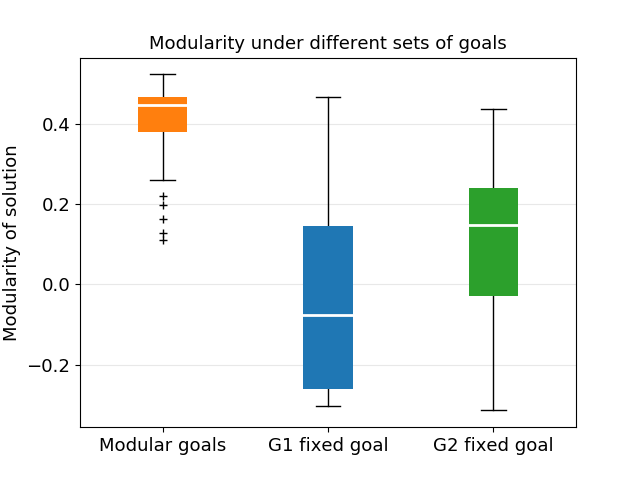
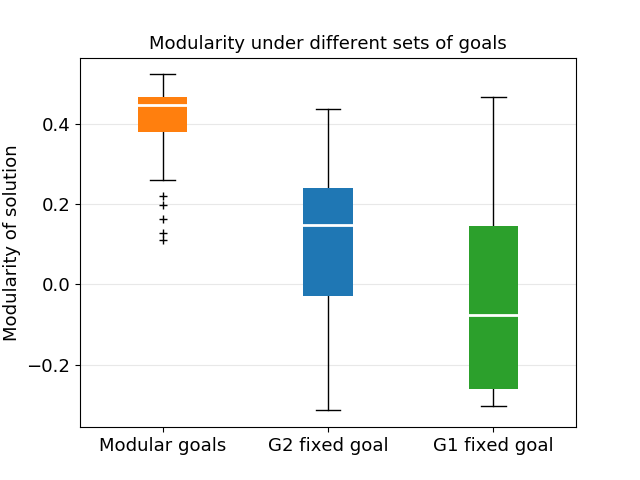
Finishing data processing

diff --git a/DataProcessing.py b/DataProcessing.py
@@ -27,11 +27,8 @@ def getModularity(path, fileCount):
     modularities = modularities[~np.isnan(modularities)]
     return modularities
 
-resolution = 20
+
 maxLength = int(1E5)
-resolution = 20
-start = resolution - 1
-labels = ["Modular goals", "G1 fixed goal", "G2 fixed goal"]
 
 # get the fitness over time of all experiments
 G1Fitness = getTrajectories("Data/FixedGoals/G1/Fitness/Fitness", 50, maxLength)
@@ -57,15 +54,17 @@ print(str(len(lengthG1)) + " successful solves of G1")
 print(str(len(lengthG2)) + " successful solves of G2")
 print(str(len(lengthModularGoals)) + " successful solves of alternating G1 and G2")
 
-print("Time taken to complete G1 was: " + str(meanG1) + " (" + str(quartilesG1[0]) + ", " + str(quartilesG1[1]) + ")")
-print("Time taken to complete G2 was: " + str(meanG2) + " (" + str(quartilesG2[0]) + ", " + str(quartilesG2[1]) + ")")
-print("Time taken to complete alternating G1 and G2 was: " + str(meanModular) + " (" + str(quartilesModular[0]) + ", " + str(quartilesModular[1]) + ")")
+print("Time taken to complete G1: " + str(meanG1) + " (" + str(quartilesG1[0]) + ", " + str(quartilesG1[1]) + ")")
+print("Time taken to complete G2: " + str(meanG2) + " (" + str(quartilesG2[0]) + ", " + str(quartilesG2[1]) + ")")
+print("Time taken to complete alternating G1 and G2: " + str(meanModular) + " (" + str(quartilesModular[0]) + ", " + str(quartilesModular[1]) + ")")
+
 
 # plot the fitness against time of a chosen run, number was varied to get an attractive looking run
 chosen = 12
+chosen = G1Fitness[chosen]
 fig, ax = plt.subplots()
-xdata = list(range(len(G1Fitness[chosen])))
-ydata = G1Fitness[chosen]
+xdata = list(range(len(chosen)))
+ydata = chosen
 ax.plot(xdata, ydata)
 
 ax.set_xlabel("Generations", fontdict={'fontsize': 13})
@@ -76,17 +75,57 @@ ax.set_title("Fitness of a typical G1 run over time", fontdict={'fontsize': 13})
 plt.savefig("Figures/TypicalG1Run.png")
 
 
+# plot the fitness against time of a chosen run, number was varied to get an attractive looking run
+chosen = 26
+chosen = MixedFitness[chosen][~np.isnan(MixedFitness[chosen])]
+chosenLength = len(chosen)
 
+# for the long plot, plot every resolution item so only the very end of the epoch is shown
+resolution = 20
+start = resolution - 1
+zoomWidth = 100
+zoomStart = max(chosenLength-zoomWidth, 0)
 
-# initialize figure for plotting
-boxFig, boxAx = plt.subplots()
+fig, (ax1, ax2) = plt.subplots(2, 1, gridspec_kw={'height_ratios': [2, 1]})
+xdata = list(range(start, chosenLength, resolution))
+xdataZoom = list(range(zoomStart, chosenLength))
+ydata = chosen[start::resolution]
+ydataZoom = chosen[zoomStart:]
+ax1.plot(xdata, ydata)
+ax2.plot(xdataZoom, ydataZoom)
+
+# format axes
+ax2.set_ylim(0.69, 1.05)
+ax1.set_ylabel("Fitness", fontdict={'fontsize': 13})
+ax2.set_ylabel("Fitness", fontdict={'fontsize': 13})
+ax2.set_xlabel("Generations", fontdict={'fontsize': 13})
+ax1.set_title("Fitness as a function of time under time varying modular goals", fontdict={'fontsize': 13})
+ax1.tick_params(axis='both', which='major', labelsize=11)
+ax2.tick_params(axis='both', which='major', labelsize=11)
+
+plt.savefig("Figures/TypicalModularRun.png")
+
 
 # extract the average modularity of the individuals with fitness 1 from the data folder
 MixedModularity = getModularity("Data/ModularGoals/Modularity/Modularity", 100)
 G1modularity = getModularity("Data/FixedGoals/G1/Modularity/Modularity", 50)
 G2modularity = getModularity("Data/FixedGoals/G2/Modularity/Modularity", 50)
-data = [MixedModularity, G1modularity, G2modularity]
+
+# find the average modularity across all runs
+meanG1, stdG1 = np.round(np.mean(G1modularity), 2), np.round(np.std(G1modularity), 2)
+meanG2, stdG2 = np.round(np.mean(G2modularity), 2), np.round(np.std(G2modularity), 2)
+meanMixed, stdMixed = np.round(np.mean(MixedModularity), 2), np.round(np.std(MixedModularity), 2)
+
+# print the average with its standard deviation to the console
+print("Modularity of G1: " + str(meanG1) + " ± " + str(stdG1))
+print("Modularity of G2: " + str(meanG2) + " ± " + str(stdG2))
+print("Modularity of alternating G1 and G2: " + str(meanMixed) + " ± " + str(stdMixed))
+
+# initialize figure for plotting
+boxFig, boxAx = plt.subplots()
+data = [MixedModularity, G2modularity, G1modularity]
 colours = ["tab:orange", "tab:blue", "tab:green"]
+labels = ["Modular goals", "G2 fixed goal", "G1 fixed goal", ]
 
 # generate plot and make some components transparent
 bp = boxAx.boxplot(data)
@@ -123,8 +162,9 @@ boxAx.set_xticklabels(labels)
 boxAx.tick_params(axis='both', which='major', labelsize=13)
 boxAx.set_ylabel("Modularity of solution", fontdict={'fontsize': 13})
 boxAx.yaxis.grid(True, linestyle='-', which='major', color='lightgrey', alpha=0.5)
+boxAx.set_title("Modularity under different sets of goals", fontdict={'fontsize': 13})
 
-plt.show()
+plt.savefig("Figures/BoxPlotModularity.png")
 
 
 """
